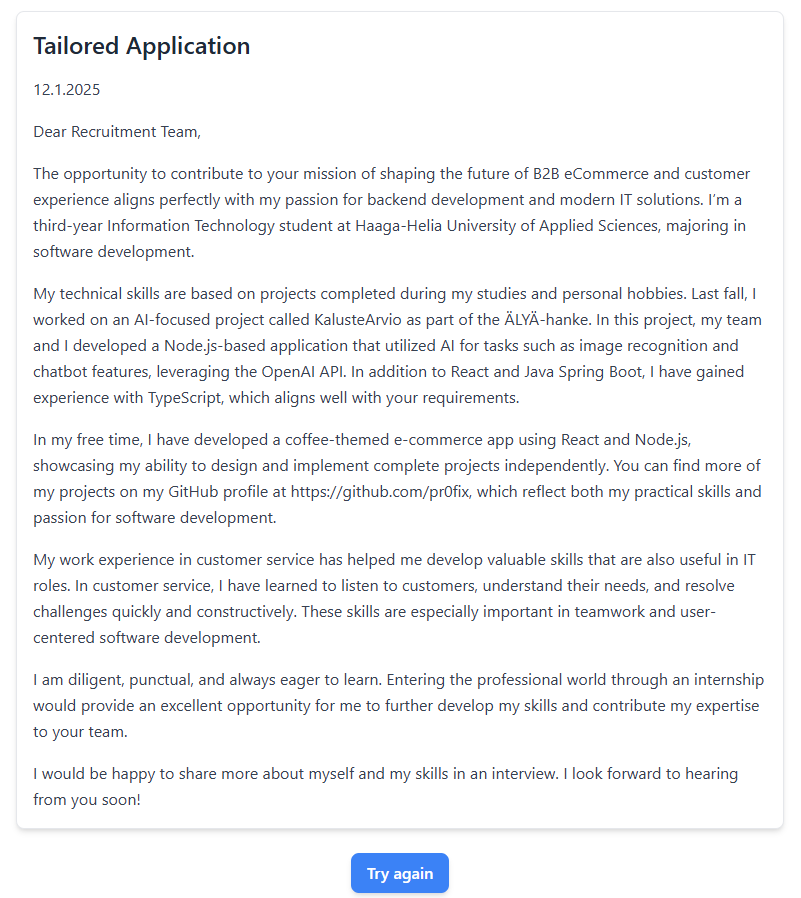
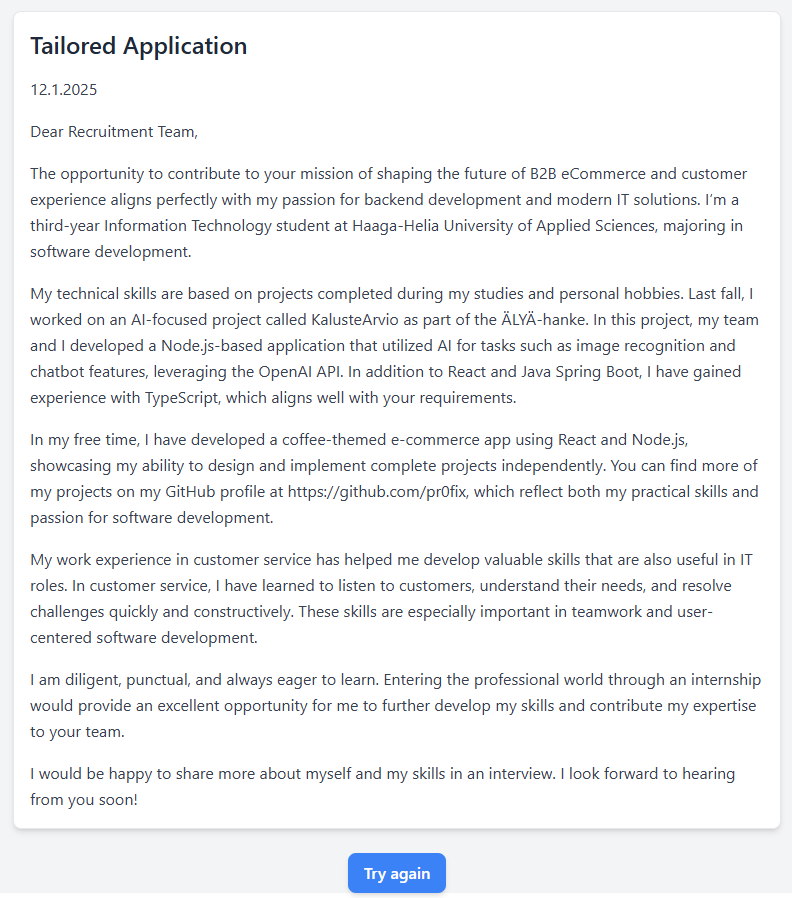
add bg-color to resultpage and update screenshots

diff --git a/frontend/src/components/AnalysisResult.tsx b/frontend/src/components/AnalysisResult.tsx
@@ -12,18 +12,14 @@ const AnalysisResult = () => {
   const paragraphs = application.split("\n").filter((p) => p.trim());
 
   return (
-    <div className="flex flex-col items-center">
+    <div className="flex flex-col items-center bg-gray-100">
       <div className="mt-8 p-4 bg-white rounded-lg shadow-md w-3/4 max-w-3xl border">
         <h2 className="text-2xl font-semibold mb-4 text-gray-800">
           Tailored Application
         </h2>
         <div className="space-y-4">
           {paragraphs.map((paragraph, index) => (
-            <p
-              key={index}
-              className="text-gray-700 leading-relaxed"
-              
-            >
+            <p key={index} className="text-gray-700 leading-relaxed">
               {paragraph}
             </p>
           ))}
